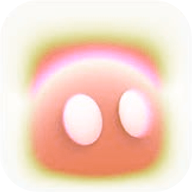
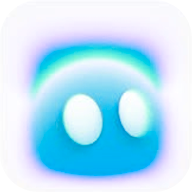
Agent tints: stay in the model's colour family

diff --git a/src/orb.js b/src/orb.js
@@ -1,6 +1,6 @@
 // Avatar of every sub-agent (all but Nami, who keeps her photo): a rounded tile cut from the model of Emre
 // (public/agents/source/model-tiles.jpeg → public/agents/tiles/<tint>.png, scripts/agent-tiles.mjs). The 3 tiles of
-// the model are used as they are; the other tints are the SAME tile hue-rotated. Same eyes for everyone.
+// the model are used as they are; the other tints are the SAME tile hue-rotated, kept in the model's family (cyan, sky blue, pale pink, magenta, violet, deep blue). Same eyes for everyone.
 //
 // Avatar spec: "/agents/tiles/<tint>.png" (also the push notification icon: public/agents/<slug>-sm.png).
 // Old specs ("/agents/orbs/…", "/agents/orb/orb.png") still mean "an avatar": the agent's own tint is used.
@@ -14,24 +14,25 @@ export const isOrb = (spec) => typeof spec === 'string' && ORB_RE.test(spec);
 export const TINTS = {
   ciel: { label: 'Bleu ciel', base: 0, hue: 0, accent: '#27a8f7' },
   rose: { label: 'Rose pâle', base: 1, hue: 0, accent: '#f0a6f2' },
-  indigo: { label: 'Bleu-violet', base: 2, hue: 0, accent: '#4a4af0' },
-  corail: { label: 'Corail', base: 0, hue: 140, accent: '#ee8a62' },
-  framboise: { label: 'Framboise', base: 2, hue: 60, accent: '#e0245e' },
-  vert: { label: 'Vert', base: 0, hue: -110, accent: '#4aa86a' },
-  turquoise: { label: 'Turquoise', base: 0, hue: -60, accent: '#19b4b0' },
-  ambre: { label: 'Ambre', base: 0, hue: 180, accent: '#c9964a' },
-  mauve: { label: 'Mauve', base: 0, hue: 60, accent: '#b87fc8' },
-  azur: { label: 'Cyan profond', base: 2, hue: 120, accent: '#12a4ee' },
+  indigo: { label: 'Bleu-violet profond', base: 2, hue: 0, accent: '#4a4af0' },
+  cyan: { label: 'Cyan', base: 0, hue: -25, accent: '#16b6d8' },
+  lavande: { label: 'Lavande pâle', base: 1, hue: -25, accent: '#b9a4f0' },
+  magenta: { label: 'Magenta', base: 2, hue: 35, accent: '#c43ad8' },
+  // Spare tints (new agents), same family.
+  violet: { label: 'Violet', base: 2, hue: 20, accent: '#8a4af0' },
+  royal: { label: 'Bleu royal', base: 2, hue: -30, accent: '#1f7cf0' },
+  pervenche: { label: 'Pervenche', base: 0, hue: 25, accent: '#8a92f0' },
+  bleuet: { label: 'Bleu pâle', base: 1, hue: -45, accent: '#a8c0f4' },
 };
 // Tint of the team (one each, never twice the same; nami = photo, tint reserved).
 export const AGENT_TINTS = {
   zero: 'ciel',
   robin: 'rose',
   hammer: 'indigo',
-  anastasia: 'corail',
-  claude: 'framboise',
-  katerina: 'vert',
-  nami: 'mauve',
+  anastasia: 'cyan',
+  katerina: 'lavande',
+  claude: 'magenta',
+  nami: 'violet',
 };
 
 export const orbSpec = (tint) => `/agents/tiles/${tint}.png`;
